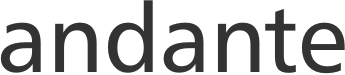
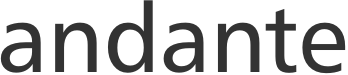
タイトルロゴ微調整

diff --git a/frontend/scss/common/_metrics.scss b/frontend/scss/common/_metrics.scss
@@ -1,5 +1,5 @@
 $post-paragraph-vertical-margin: 1rem;
-$title-width: 115px;
+$title-width: 116px;
 $title-height: 25px;
 $title-top-margin: 0.6em;
 $title-bottom-margin: 0.2em;
